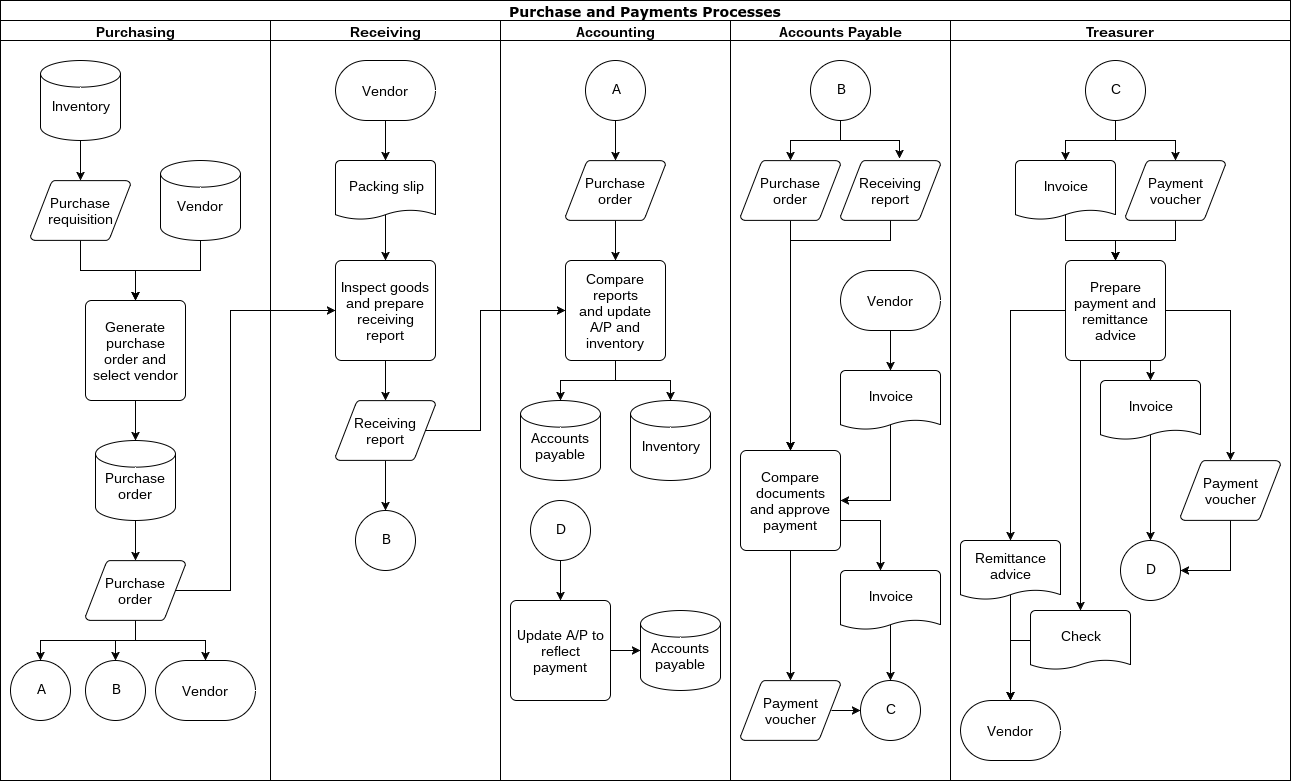
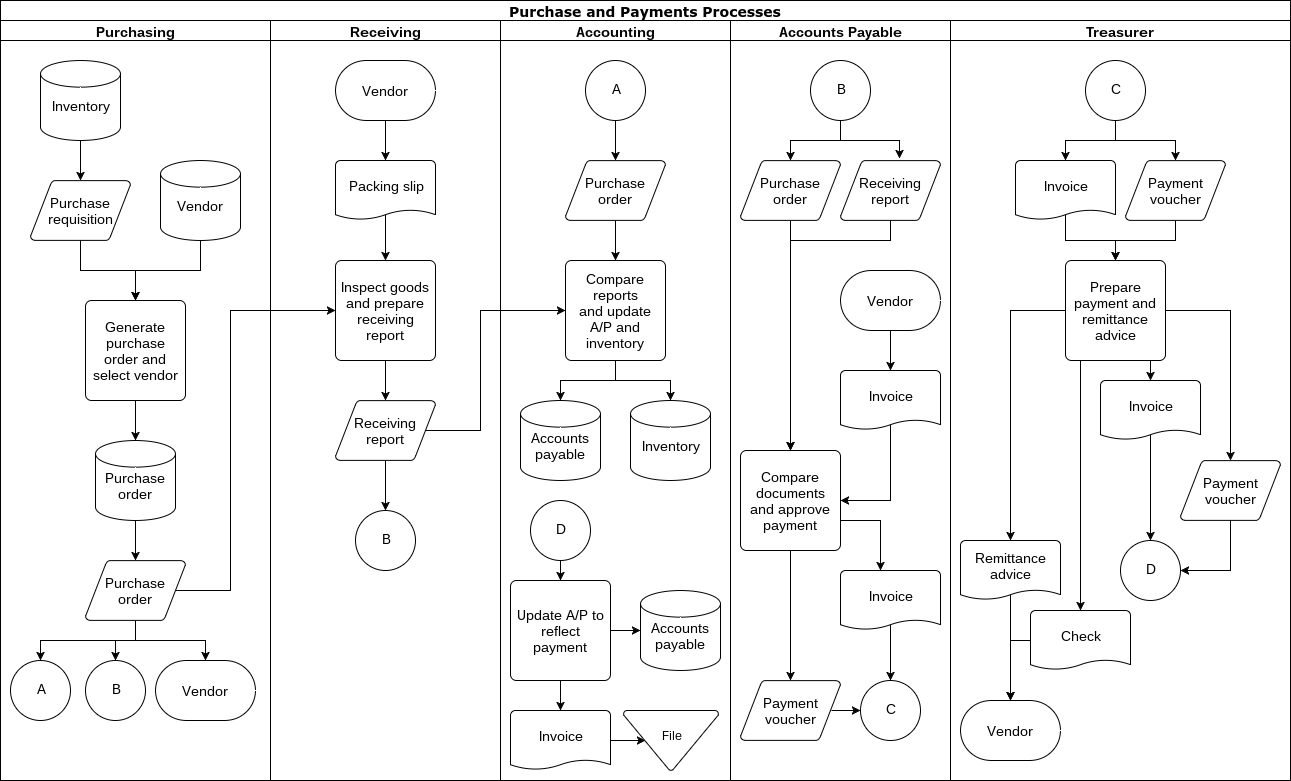
Updated Business Model lecture.

diff --git a/lectures/business-model.html b/lectures/business-model.html
@@ -57,7 +57,7 @@
 				<dd>Receiving and depositing payments from customers, lenders, and investors.</dd>
 				<dt>Purchase process</dt>
 				<dd>Ordering and receiving goods and services from vendors.</dd>
-				<dt>Cash payments process</dt>
+				<dt>Payments process</dt>
 				<dd>Receiving invoices and issuing payment.</dd>
 				<dt>Payroll process</dt>
 				<dd>Receiving time cards from employees and paying wages.</dd>
@@ -88,7 +88,7 @@
 				<dt>Revenue cycle</dt>
 				<dd>Sales, sales return, and cash receipts processes.</dd>
 				<dt>Expenditure cycle</dt>
-				<dd>Purchase, cash payments, production, payroll, and fixed asset processes.</dd>
+				<dd>Purchase, payments, production, payroll, and fixed asset processes.</dd>
 			</dl>
 		</section>
 
@@ -97,11 +97,11 @@
 			<p>Classifying proccesses by transaction cycle is simply a matter of convenience. As a result, the same process can belong to multiple cycles, depending on scope. Additional cycles could include:</p>
 			<dl>
 				<dt>Cash cycle</dt>
-				<dd>Cash receipts and cash payments processes.</dd>
+				<dd>Cash receipts and payments processes.</dd>
 				<dt>Conversion (or Inventory) cycle</dt>
 				<dd>Purchase, production, and payroll processes.</dd>
 				<dt>Investment cycle</dt>
-				<dd>Cash receipts, cash payments, and fixed asset processes.</dd>
+				<dd>Cash receipts, payments, and fixed asset processes.</dd>
 				<dt>HR cycle</dt>
 				<dd>Personnel and payroll processes.</dd>
 			</dl>
@@ -299,122 +299,54 @@
 		</section>
 
 		<section>
-			<h3>Narrative</h3>
-			<p></p>
+			<h3>Narrative: Purchase Process</h3>
+			<p>The inventory database generates a purchase requisition, when inventory falls below its reorder point. The Purchasing agent generates a purchase order and selects a vendor from the approved vendor database. The purchase order is sent to the Vendor, Receiving, Accounting, and Accounts Payable. When the goods arrive with a packing slip from the Vendor, the Receiving agent counts and inspects the goods, compares the goods to the packing slip and the purchase order and creates a receiving report for Accounting and Accounts Payable. The Accounting agent compares the receiving report with the purchase order and updates accounts payable and inventory.</p>
+		</section>
+
+		<section>
+			<h3>Narrative: Payments Process</h3>
+			<p>When Accounts Payable receives a Vendor invoice, the Accounts Payable agent compares the invoice to the purchase order and the receiving report and approves payment. The Accounts Payable agent then forwards the invoice and a payment voucher, which approves payment, to the Treasurer. The Treasurer prepares and signs a check and remittance advice and sends these to the Vendor. The Treasurer then sends the invoice and payment voucher to Accounting, and the Accounting agent updates accounts payable to reflect the payment and files the invoice.</p>
 		</section>
 
 		<section>
 			<h3>Exceptions</h3>
+			<p>The examples describe business processes without any errors. However, this is not a true, or at least complete, reflection of reality. In business, sometimes ordered goods are out of stock, payments are for the wrong amount, goods are damaged in transit, or invoices fail to match purchase orders. In these situations, business entities must include tasks in each business process to address errors and discrepancies. For example, if a vendor sends an incorrect invoice, the business must have a process for contacting the vendor to rectify the situation before approving payment.</p>
 		</section>
 
 		<section>
 			<h3>What, Not How</h3>
+			<p>These flowcharts focus exclusively on <em>what</em> happens in a process, and not <em>how</em>. Each of the individual tasks in these processes is a black box, and the structure of the information system and how it stores the necessary data and generates the desired reports is completely opaque. The specific steps taken to perform each task will vary between business entities. The design of the information system that supports these business processes&mdash;the focus of accounting architecture&mdash;will also vary by compliance, business model, and risk goals, as indicated by the Environment section of the arch. One of these goals that has recently taken the business and IT world by storm is automation.</p>
 		</section>
 
 		<section>
 			<h3>Automation</h3>
-			<p>One of the advantages of information technology is the opportunity to automate tasks and processes.</p>
+			<p>Automation is the use of digital systems to replace manual tasks. Computers and information systems exist to automate. Early computers automated complex mathematical calculations. More recent systems have begun to learn how to automate all sorts of tasks: understanding human speech and writing, driving, valuing stock portfolios, etc. With respect to business processes, computers have automated data flow by allowing systems to transfer information to end-users, instead of relying on paper-based ledgers and reports. As a result, some accounting tasks that existed before automation (e.g., the need to maintain separate journals, ledgers, and sub-ledgers with periodic reconciliation) have evolved (e.g., one database for all transactions with automatic grouping by account, as needed).</p>
 		</section>
 
 		<section>
 			<h3>How Secure Is My Job?</h3>
-			<p></p>
+			<p>Automation will continue to change the landscape of the accounting profession, and the expectation is that in the near future, many bookkeeping tasks and some accounting and auditing tasks will be &ldquo;outsourced&rdquo; to computers as computers become increasingly able to understand and apply accounting standards and evaluate transaction databases for errors and fraud. According to <a href="https://willrobotstakemyjob.com/" target="_blank" aria-label="Website opens in new window">one website</a>, bookkeepers, accountants, and auditors are exposed to over 90% automation risk. Even if these numbers are overstated, this should serve as a strong indicator that adaptation and evolution of the accounting profession is necessary in order to remain relevant.</p>
 		</section>
 
 		<section>
 			<h3>Why CFO and not CIO?</h3>
-			<p></p>
+			<p>One dimension of evolution is the assimilation of responsibilities previously associated with other professions. Currently, the CFO is the C-suite executive associated with accountants. CIO (Chief Information Officer), CSO (Chief Security Officer) and CDO (Chief Data Officer) are generally associated with information-related professions. However, accounting is and should be an information-related profession, and especially accounting architects can and should have the skills necessary to serve as data, security, and information executives. An important first step in this evolution is the assimilation of all business information under the heading &ldquo;accounting information.&rdquo;</p>
 		</section>
 
 		<section>
-			<h3>Accounting Information</h3>
+			<h3>Information Flows</h3>
+			<p>This data flow diagram provides a high-level overview of business information flows that can all come under the umbrella of accounting information.</p>
+			<img src="../images/dfd-cycles.png" alt="DFD of Business Information"/>
 		</section>
 
 		<section>
-			<h3>High-level Information Flows</h3>
-			<div class="override"><img src="../images/dfd-cycles.png" alt="Cycles"/></div>
-		</section>
-
-		<section>
-			<h3>Walkthough</h3>
-			<p>This DFD highlights a number of informational needs connected with revenue-generating activities, which are grouped together into one high-level Revenue Cycle object. The arrows and their labels represent information flows. Related flows of resources may also occur (e.g., Bank receives information regarding deposits, as well as the deposits themselves), but this diagram focuses on informational needs. Some of the flows in this diagram are intuitive: banks receive deposit information and send statements; customers send orders, payment information, return requests, and customer inquiries, and they receive invoices, delivery information, and responses to inquiries.</p>
-		</section>
-
-		<section>
-			<h3>Additional Flows</h3>
-			<p>Other information flows include:</p>
-			<ol>
-				<li>The expenditure cycle (for firms that acquire goods and services to sell) or the production cycle (for firms that create goods and services to sell) receives information regarding consumed resources from the revenue cycle and a forecast of resources to procure from marketing and sends the cost of sales to financial reporting, consumed employee time to payroll, and orders to vendors. Vendors provide invoices in return.</li>
-				<li>The revenue cycle provides sales information to marketing and financial reporting and receives recommended prices from marketing.</li>
-			</ol>
+			<h3>Accountants Wanted</h3>
+			<p>The role of accountants is to measure and report in economic activities, and within the business all sorts of internal and external transactions constitute economic activities. The groups involved in these transactions all need information. For example, Marketing needs better information about current and projected customer behavior and economic conditions in order to determine appropriate inventory prices and levels. Payroll and HR need better information about budgets and cost accounting in order understand staffing and training needs. Purchasing and Shipping need better information about trends in the expenditure and revenue cycles in order to maximize order size and minimize freight costs. Tax needs better information about planned investments in order to maximize the tax benefit of supply chain activities.</p>
 		</section>
 
 		<section>
 			<h3>Big Data and Data Analytics</h3>
-			<p>With the advent of Big Data and the belief that the secrets to additional profitability lie hidden therein, additional information flows have arisen. For example, marketing may now collect various types of information from customers, such as Web site visits. Additionally, the rise in data analytics has also created, or promised to create, additional internal flows of information regarding firm strategy. For example, the tax function can use knowledge of tax policy and analysis of past sales and Big Data to identify strategies to report to the expenditure or production cycle or marketing.</p>
-		</section>
-
-		<section>
-			<h3>Feedback Loop</h3>
-			<p>These cases of the impact of Big Data and data analytics on information flows highlights one important role of the information system: to provide feedback on the business model. In the accounting architecture arch, Business Model is a foundational block because the information system should adhere to role of measuring and reporting on the existing business. However, as it reports on the existing business, the external environment, and organizational capabilities, the information system should affect the future business model by determining new strategies. The information system should not limit itself to reporting on past activities.</p>
-		</section>
-
-		<section>
-			<h3>One Example</h3>
-			<p>The purpose for providing this graphical representation of information flows is to provide a context and an application for identifying the informational needs of various internal and external stakeholders. This is <em>not</em> the model of a particular firm's cycles. It is simply an example in order to increase understanding of potential information flows. Just as diagrams are useful for communication in business, this example diagram serves to communicate information needs in a concise fashion. Implementing these principles in a different business setting merely involves recognizing how the concepts apply to another application.</p>
-		</section>
-
-		<section>
-			<h3>Accounting Tie-in</h3>
-			<p>Traditional accounting curriculum focuses exclusively on the information flows into the financial reporting and tax functions. However, this is not an appropriate view of the information stewardship of accountants. In practice, accountants are involved with measurement and reporting activities associated with each of the information flows and functions depicted in this diagram. Marketing uses accountants, payroll and HR use accountants, production uses accountants, sales uses accountants. The purpose of accounting architecture is not only to support the financial reporting function, but rather to support the measurement and reporting needs of all business activities. These are some less obvious, but important, examples:</p>
-		</section>
-
-		<section>
-			<h3>Measurements...</h3>
-			<ul>
-				<li>IT: Volume of customer traffic to company Web site</li>
-				<li>Advertising: Number of TV advertisements</li>
-				<li>Customer service: Level of customer satisfaction</li>
-				<li>HR: Number of contract employees</li>
-				<li>Tax: Polling numbers of political candidates</li>
-				<li>Big Data: Number of company social media posts</li>
-			</ul>
-		</section>
-
-		<section>
-			<h3>...and Reports</h3>
-			<ul>
-				<li>Volume of customer traffic to company Web site
-				<ul>
-					<li>Average income from a customer visit to the company Web site</li>
-				</ul>
-				</li>
-				<li>Number of TV advertisements
-				<ul>
-					<li>Sales revenues per advertisement</li>
-				</ul>
-				</li>
-				<li>Level of customer satisfaction
-				<ul>
-					<li>Lost revenues from low customer satisfaction</li>
-				</ul>
-				</li>
-				<li>Number of contract employees
-				<ul>
-					<li>Cost of the full-time equivalents</li>
-				</ul>
-				</li>
-				<li>Polling numbers of political candidates
-				<ul>
-					<li>Change in tax consequences of business activities</li>
-				</ul>
-				</li>
-				<li>Number of company social media posts
-				<ul>
-					<li>Proportion of revenue driven by social media</li>
-				</ul>
-				</li>
-			</ul>
+			<p>Big Data expands on the amount of available accounting information. Although the number of visits to a website or the content of social media posts following a television advertisement or the frequency of Google searches for a specific product, may not seem like accounting information, these can all lead to better information for strategic decision making if measured and reported properly. For example, understanding social media sentiment or Google searches can increase the precision of sales forecasts; tracking website visits can give insight into advertising and marketing budgets; measuring the correlation between online and in-store purchases can explain the interplay between sales channels. Big Data is accounting information.</p>
 		</section>
 	</div>
 	</div>
